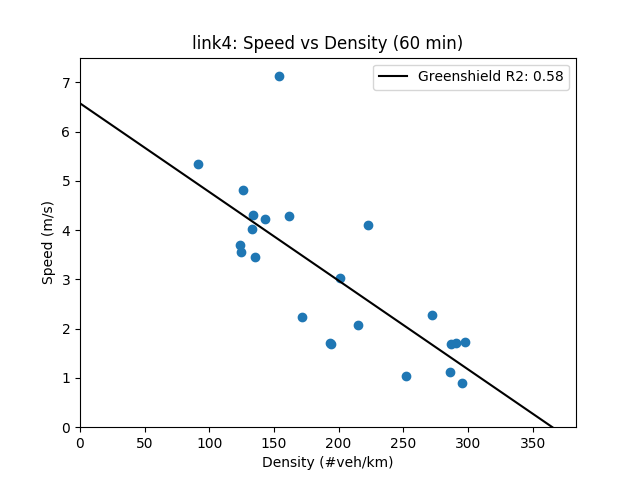
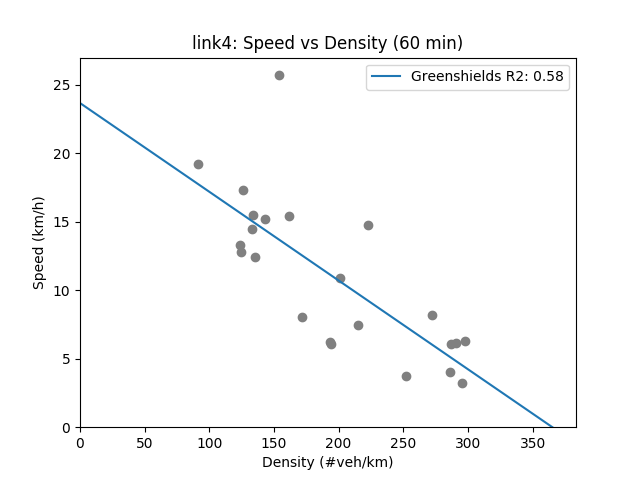
Fix speed units and try Greenberg

diff --git a/lab3/fundamental_diagram/fundamental_diagram.py b/lab3/fundamental_diagram/fundamental_diagram.py
@@ -6,6 +6,7 @@ import xml.etree.ElementTree as ET
 import sys
 import numpy as np
 import sklearn.metrics
+import scipy.optimize
 
 def fetch_edge_attrs(data, edge_id, attrs):
     values = {}
@@ -23,7 +24,7 @@ def fetch_edge_attrs(data, edge_id, attrs):
     return values
 
 def greenshield(vals):
-    # The fit is a linear model, following Greenshield
+    # The fit is a linear model, following Greenshields
     # y(x) = a + b1.x
     # and
     # v(p) = vf(1 - p/pj)
@@ -35,13 +36,31 @@ def greenshield(vals):
     x = np.linspace(0,-a/b1)
     y = a + b1 * x
 
+    print('Greenshield: a: {} b1: {}'.format(a, b1))
+
     # Equal to y, but only for the actual speeds of x
     y_predicted = a + b1 * np.array(vals['density'])
 
     r2 = sklearn.metrics.r2_score(vals['speed'], y_predicted)
     return x,y,r2
 
+def _greenberg_func(p, pj):
+    v0 = 70
+    return v0 * np.log(pj/p)
 
+def greenberg(vals):
+    popt, pconv = scipy.optimize.curve_fit(_greenberg_func, vals['density'], vals['speed'])
+    pj = popt[0]
+    x = np.linspace(50,350)
+    y = _greenberg_func(x, pj)
+
+    print('Greenberg: pj: {}'.format(pj))
+
+    # Equal to y, but only for the actual speeds of x
+    y_predicted = _greenberg_func(np.array(vals['density']), pj)
+    r2 = sklearn.metrics.r2_score(vals['speed'], y_predicted)
+
+    return x, y, r2
 
 if __name__ == "__main__":
     filename = sys.argv[1]
@@ -52,16 +71,22 @@ if __name__ == "__main__":
     # According to https://sumo.dlr.de/docs/Simulation/Output/Lane-_or_Edge-based_Traffic_Measures.html,
     # `speed` "is an average over time and space (space-mean-speed)".
     vals = fetch_edge_attrs(xml.getroot(), edge, ['speed', 'density'])
+    # We convert speeds to km/h:
+    vals['speed'] = np.array(vals['speed']) * 3.6
+
     print(vals)
 
-    plt.scatter(vals['density'], vals['speed'])
+    plt.scatter(vals['density'], vals['speed'], color='gray')
 
     x,y,r2 = greenshield(vals)
-    plt.plot(x, y, color='black', label='Greenshield R2: {}'.format(round(r2,2)))
-    plt.axis(xmin=0,ymin=0)
+    plt.plot(x, y, label='Greenshields R2: {}'.format(round(r2,2)))
 
+    #x,y,r2 = greenberg(vals)
+    #plt.plot(x, y, label='Greenberg R2: {}'.format(round(r2,2)))
+
+    plt.axis(xmin=0,ymin=0)
     plt.xlabel('Density (#veh/km)')
-    plt.ylabel('Speed (m/s)')
+    plt.ylabel('Speed (km/h)')
     plt.title('{}: Speed vs Density (60 min)'.format(edge))
     plt.legend()
     plt.show()
